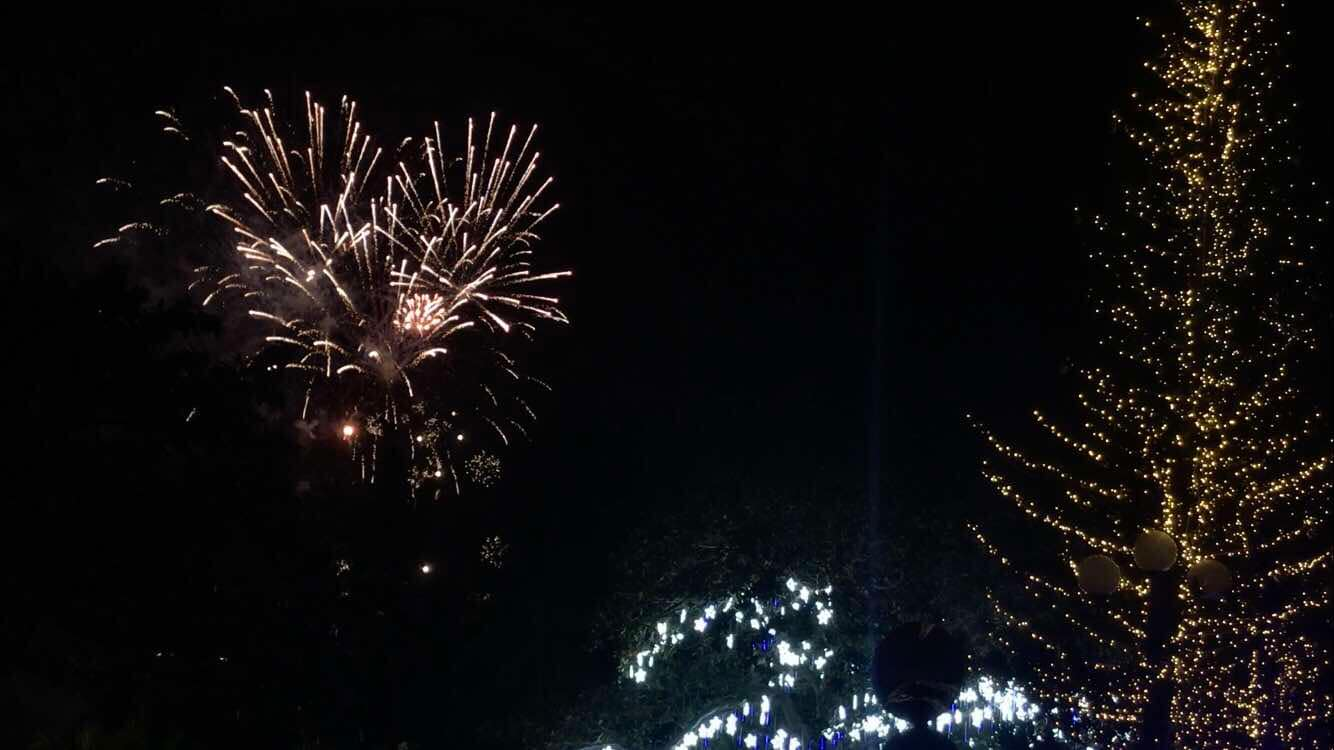
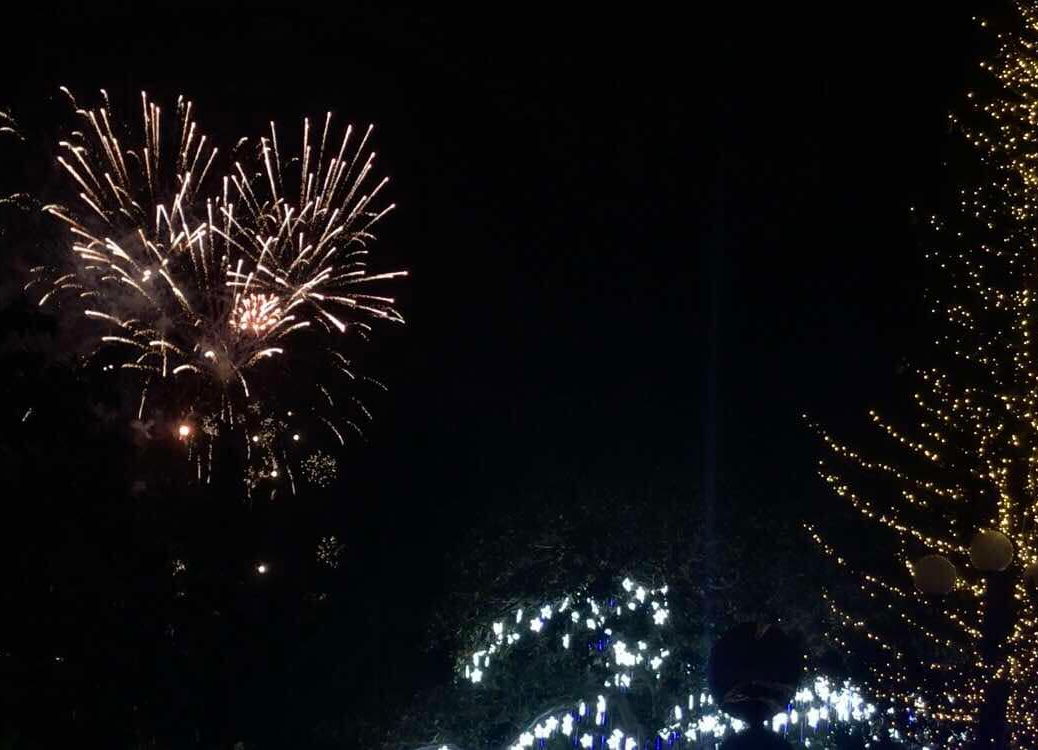
07/02/2025

diff --git a/index.html b/index.html
@@ -15,6 +15,7 @@
    div{
        background-color: #b8b8aa;
        background-image: url("img/abc.jpeg");
+       background-size: cover;
        display: flex;
        flex-wrap: wrap;
        justify-content: center;
